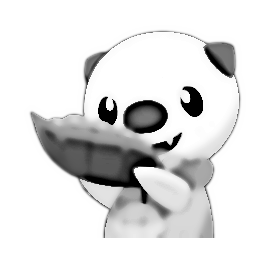
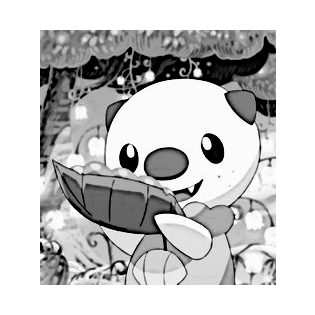
unremove bg

diff --git a/scripts/prep_photo.py b/scripts/prep_photo.py
@@ -1,18 +1,4 @@
-"""
-Prepare the dp (a flat illustration) for clean ASCII conversion:
-  1. remove the background (rembg) so the subject is isolated
-  2. bilateral-smooth away the paper texture (otherwise skin turns to `::::`
-     noise and the eyes drown in it) while keeping the drawn lines sharp
-  3. stretch tones so skin lands near white and hair/lines stay dark
-  4. darken the line work (difference-of-gaussians ridges) -- eyelids, pupils,
-     glasses frame and smile are thin dark strokes that plain luminance
-     averaging washes out at ascii resolution
-  5. composite onto white and crop square around the subject
 
-Output: source-prepped.png (grayscale), consumed by make_ascii_svg.py.
-
-    python scripts/prep_photo.py <input.png> [output.png]
-"""
 import os
 import sys
 
@@ -22,44 +8,85 @@ from PIL import Image
 from rembg import remove
 
 HERE = os.path.dirname(os.path.abspath(__file__))
-INP = sys.argv[1] if len(sys.argv) > 1 else os.path.join(HERE, "..", "source-photo.png")
-OUT = sys.argv[2] if len(sys.argv) > 2 else os.path.join(HERE, "..", "source-prepped.png")
+ROOT = os.path.dirname(HERE)
 
-LINE_WEIGHT = 0.6     # how hard drawn lines are pushed toward black
+INP = sys.argv[1] if len(sys.argv) > 1 else os.path.join(ROOT, "source-photo.png")
+OUT = sys.argv[2] if len(sys.argv) > 2 else os.path.join(ROOT, "source-prepped.png")
 
-# 1. cut out the subject
-cut = remove(Image.open(INP).convert("RGBA"))
-rgb = np.array(cut.convert("RGB"))
-alpha = np.array(cut.split()[-1])                 # 0 = background
+# SETTINGS
+REMOVE_BACKGROUND = False
+SMOOTHING = 0          # 0 = none, 1 = very mild
+CONTRAST = 1.0         # 1.0 = preserve original contrast
+BRIGHTNESS = 0         # 0 = preserve original brightness
+LINE_WEIGHT = 0.5      # 0 = no artificial line enhancement
+PADDING = 30
+
+# 1. Load the original image
+image = Image.open(INP).convert("RGBA")
+
+# 2. Optional background removal
+if REMOVE_BACKGROUND:
+    image = remove(image)
+
+rgba = np.array(image)
+rgb = rgba[:, :, :3]
+alpha = rgba[:, :, 3]
+
+# 3. Convert to grayscale
 gray = cv2.cvtColor(rgb, cv2.COLOR_RGB2GRAY)
 
-# 2. smooth texture, keep edges
-smooth = gray
-for _ in range(3):
-    smooth = cv2.bilateralFilter(smooth, 9, 40, 9)
+# 4. Optional light smoothing
+if SMOOTHING > 0:
+    gray = cv2.bilateralFilter(gray, 5, 15, 5)
 
-# 3. tone stretch over the subject only
-lo, hi = np.percentile(smooth[alpha > 128], [2, 92])
-tone = np.clip((smooth.astype(np.float32) - lo) / (hi - lo), 0, 1)
+# 5. Preserve original tones
+tone = gray.astype(np.float32)
 
-# 4. dark-on-light ridges -> darken
-fine = cv2.GaussianBlur(smooth, (0, 0), 1.5).astype(np.float32)
-coarse = cv2.GaussianBlur(smooth, (0, 0), 6).astype(np.float32)
-lines = np.clip((coarse - fine) / 40.0, 0, 1)
-out = np.clip(tone - LINE_WEIGHT * lines, 0, 1) * 255
+tone = (tone - 127.5) * CONTRAST + 127.5 + BRIGHTNESS
+tone = np.clip(tone, 0, 255)
 
-# 5. paste onto white (feathered a hair to avoid a halo), square crop
-mask = cv2.GaussianBlur(alpha.astype(np.float32) / 255.0, (0, 0), 1.0)
-out = out * mask + 255.0 * (1.0 - mask)
+# 6. Optional line enhancement
+if LINE_WEIGHT > 0:
+    fine = cv2.GaussianBlur(gray, (0, 0), 1.0).astype(np.float32)
+    coarse = cv2.GaussianBlur(gray, (0, 0), 3.0).astype(np.float32)
 
+    lines = np.clip((coarse - fine) / 40.0, 0, 1)
+    tone = np.clip(tone - LINE_WEIGHT * lines * 255, 0, 255)
+
+# 7. Composite onto white
+mask = alpha.astype(np.float32) / 255.0
+output = tone * mask + 255.0 * (1.0 - mask)
+
+# 8. Square crop around subject
 ys, xs = np.where(alpha > 20)
-side = max(xs.max() - xs.min(), ys.max() - ys.min()) + 60
-cx, cy = (xs.min() + xs.max()) // 2, (ys.min() + ys.max()) // 2
-canvas = np.full((side, side), 255, np.uint8)
-x0, y0 = cx - side // 2, cy - side // 2
-sx0, sy0 = max(x0, 0), max(y0, 0)
-sx1, sy1 = min(x0 + side, out.shape[1]), min(y0 + side, out.shape[0])
-canvas[sy0 - y0:sy1 - y0, sx0 - x0:sx1 - x0] = out[sy0:sy1, sx0:sx1].astype(np.uint8)
 
-Image.fromarray(canvas, mode="L").save(OUT)
-print("wrote", OUT, canvas.shape)
+if len(xs) == 0:
+    raise ValueError("No visible subject detected. Check background removal.")
+
+side = int(max(
+    xs.max() - xs.min() + 1,
+    ys.max() - ys.min() + 1
+) + 2 * PADDING)
+
+cx = int((xs.min() + xs.max()) / 2)
+cy = int((ys.min() + ys.max()) / 2)
+
+canvas = np.full((side, side), 255, dtype=np.uint8)
+
+x0 = cx - side // 2
+y0 = cy - side // 2
+
+sx0 = max(x0, 0)
+sy0 = max(y0, 0)
+sx1 = min(x0 + side, output.shape[1])
+sy1 = min(y0 + side, output.shape[0])
+
+canvas[
+    sy0-y0:sy1-y0,
+    sx0-x0:sx1-x0
+] = output[sy0:sy1, sx0:sx1].astype(np.uint8)
+
+Image.fromarray(canvas).save(OUT)
+
+print("Wrote:", OUT)
+print("Size:", canvas.shape)
